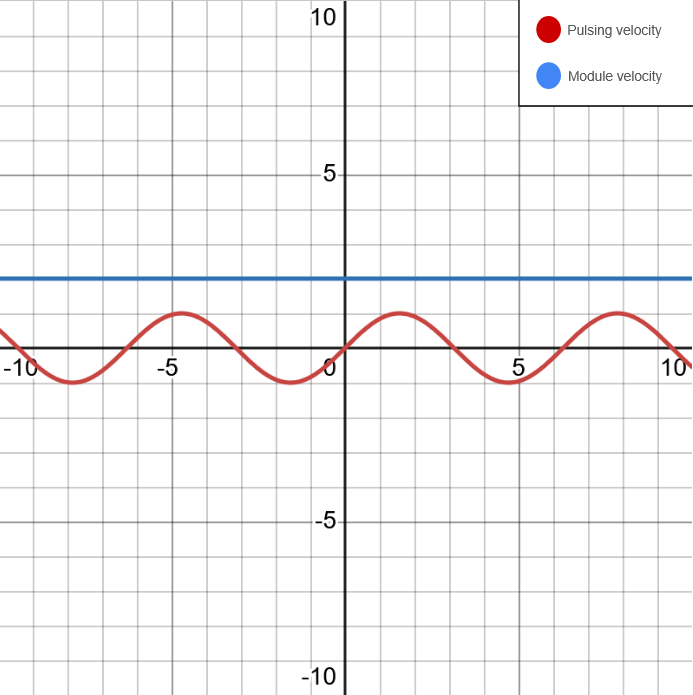
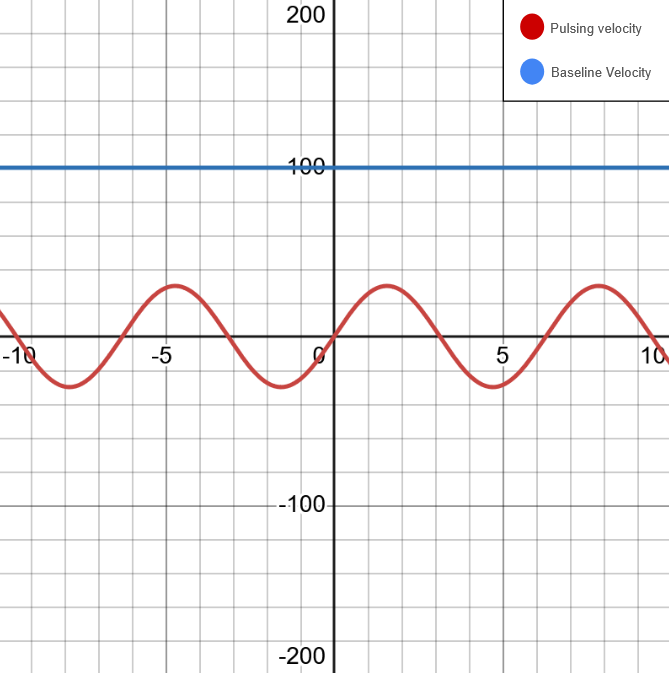
Updated based on PR comments.

diff --git a/docs/manual/manual_pulsing.rst b/docs/manual/manual_pulsing.rst
@@ -26,10 +26,44 @@ will spin slower. A change in amplitude will change the strength of the pulse wh
 to work best for a specific use case with the Vertiq teetering and flapping proppelers.
 
 These propellers and the modules also exist in an X and Y coordinate system. By adjusting the value of X and Y in the coordinate system, the propeller will change it's angle appropriately.
+It is also possible to change the pulsing magnitude and pulsing phase to alter the position and strength of the pulse. This is illustrated below to explain the vectors that define pulsing.
 
-When using a propeller the zero angle is the positive direction of the X coordinate system. The zero angle works to ensure that the X axis is along the front of your vehicle. To 
-accomplish this, we can change the zero angle such that X is calibrated to face the front of your vehicle allowing for a postive X value to tilt a propeller toward the front of your 
-vehicle.
+.. figure:: ../_static/manual_images/pulsing/pulsing_vectors.png
+    :align: center
+    :scale: 75
+    :alt: Vectors that define pulsing
+
+    Vectors that define pulsing
+
+When using a propeller the zero angle is the positive direction of the X coordinate system. 
+
+.. figure:: ../_static/manual_images/pulsing/altered_pulsing_zero_angle.png
+    :align: center
+    :scale: 75
+    :alt: Altered pulsing zero angle
+
+    Altered pulsing zero angle
+
+The zero angle works to ensure that the X axis is along the front of your vehicle as seen in the figure below. 
+
+.. figure:: ../_static/manual_images/pulsing/pulsing_basic_vehicle_shapes.png
+    :align: center
+    :scale: 75
+    :alt: Pulsing with vehicle shape
+
+    Pulsing with vehicle shape
+
+To accomplish this, we can change the zero angle such that X is calibrated to face the front of your vehicle allowing for a postive X value to tilt a propeller toward the front of your 
+vehicle. 
+
+.. figure:: ../_static/manual_images/pulsing/pulsing_vehicle_zero_angle.png
+    :align: center
+    :scale: 75
+    :alt: Pulsing with vehicle zero angle
+
+    Pulsing with vehicle zero angle
+
+|
 
 .. note::
 

diff --git a/docs/control_center_docs/pulsing_module_getting_started.rst b/docs/control_center_docs/pulsing_module_getting_started.rst
@@ -7,6 +7,8 @@
 Getting Started with Vertiq's Pulsing Firmware with IQ Control Center
 ########################################################################
 
+To learn more about pulsing, please read the manual `Pulsing Based Control Mechanisms <manual_pulsing>`_ to gain a background before continuing to get started with pulsing.
+
 .. note::
     This guide focuses on setting parameters on your Vertiq modules. Please refer to your hardware's documentation (flight controller, radio, etc.) for more details on its specific configuration. 
     For example, refer to the `PX4 documentation <https://docs.px4.io/main/en/flight_controller/>`__ for integrating with a PX4 flight controller. 
